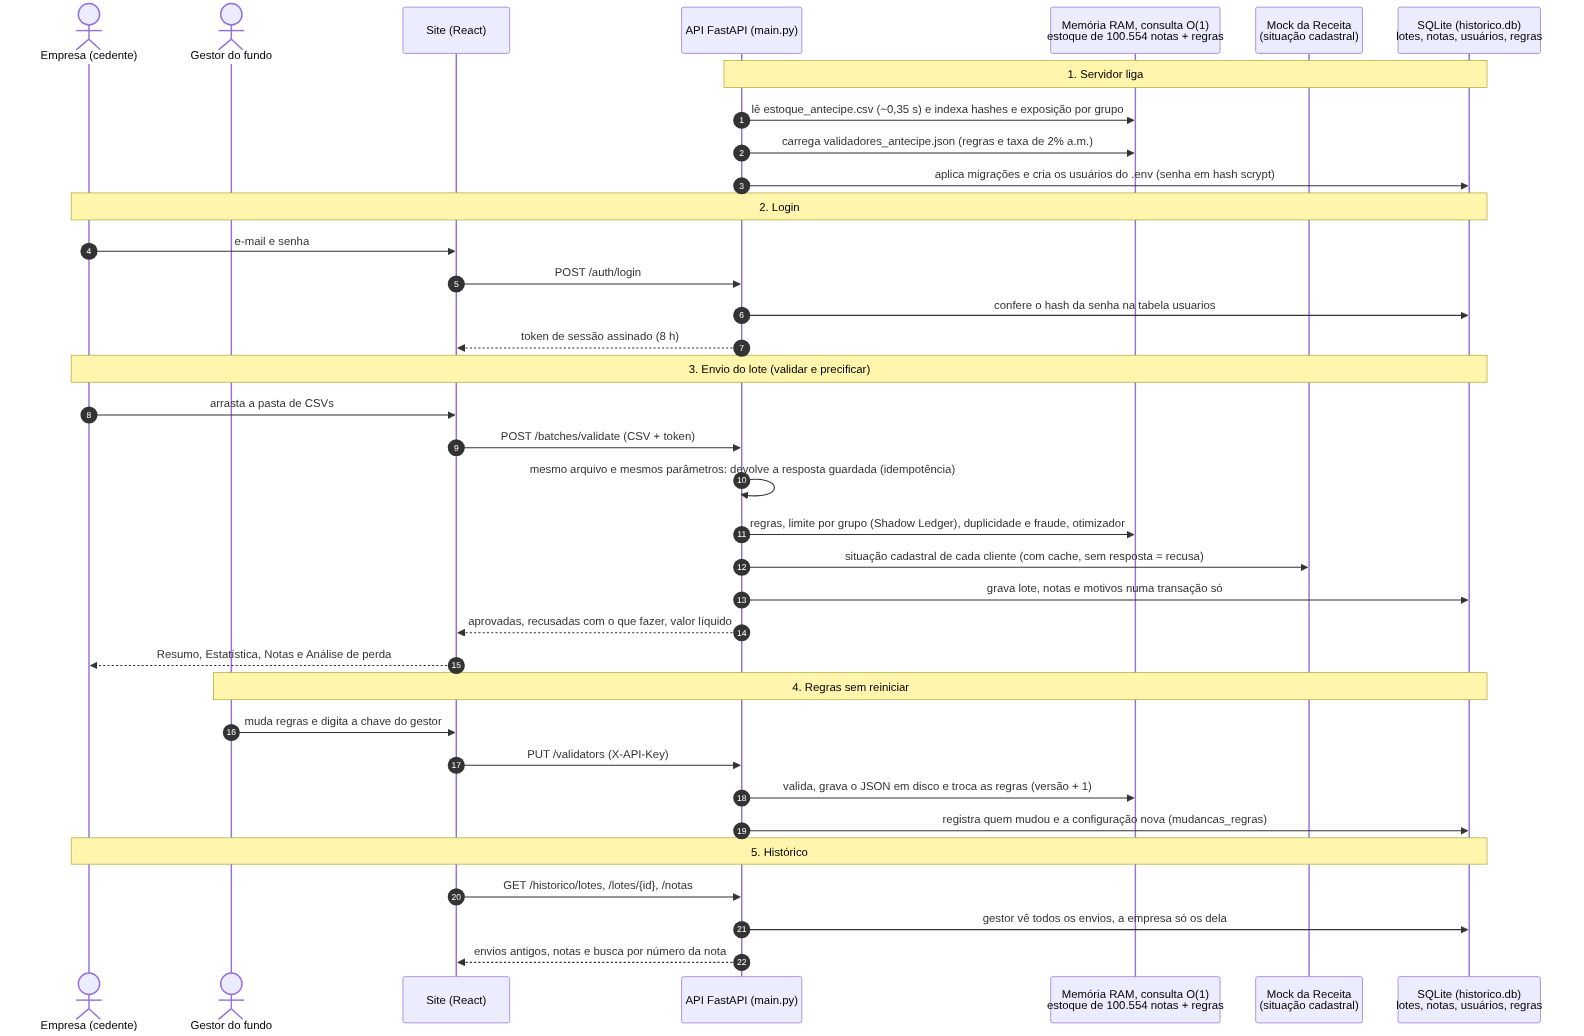
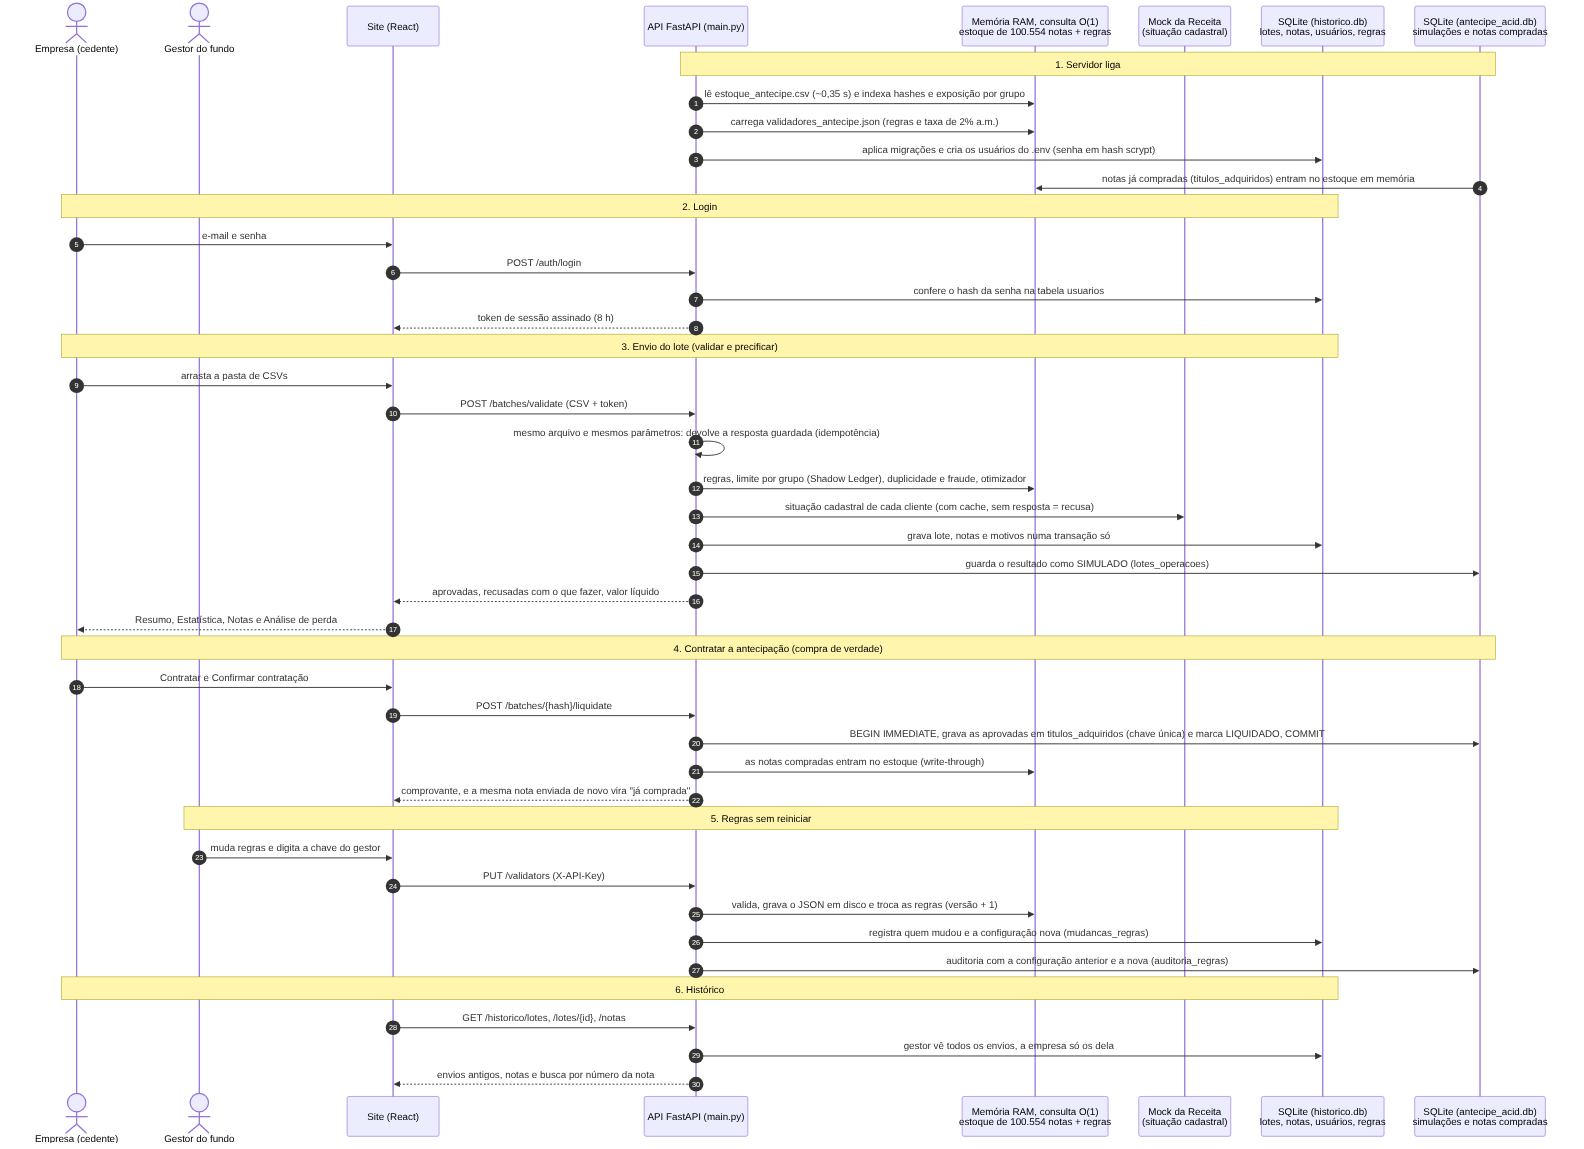
feat(frontend): botão Contratar antecipação no Resumo + diagramas com o banco ACID
- Resumo: Contratar por R$ ... com confirmação chama POST /batches/{hash}/liquidate e mostra o comprovante
- Diagramas: fluxo com a contratação e as tabelas do antecipe_acid.db
- Guia: passo de contratar e como recomeçar do zero

Claude-Session: https://claude.ai/code/session_01PjQaE5YvbVrZZ2dAfbAvsp

diff --git a/frontend/src/components/telas/TelaResumo.tsx b/frontend/src/components/telas/TelaResumo.tsx
@@ -1,5 +1,6 @@
-import { AlertTriangle, ArrowRight, BarChart3, CheckCircle2, ListChecks, Sparkles } from "lucide-react";
-import type { MetaLote, ResumoLote } from "../../types/api";
+import { useState } from "react";
+import { AlertTriangle, ArrowRight, BarChart3, CheckCircle2, Handshake, ListChecks, Loader2, Sparkles } from "lucide-react";
+import type { MetaLote, RespostaLiquidacao, ResumoLote } from "../../types/api";
 import { formatarMoeda, formatarPercentual } from "../../utils/formatters";
 
 interface TelaResumoProps {
@@ -10,6 +11,71 @@ interface TelaResumoProps {
   nomeLote: string | null;
   replayIdempotente: boolean;
   onIr: (destino: "estatistica" | "notas", motivo?: string | null) => void;
+  /** contratar a antecipação deste lote (ausente = modo demonstração ou servidor desligado) */
+  onLiquidar?: () => Promise<void>;
+  liquidacao?: RespostaLiquidacao | null;
+}
+
+/** Último passo: a empresa confirma e o fundo compra as notas aprovadas. Pede confirmação antes. */
+function Contratar({ resumo, onLiquidar, liquidacao }: { resumo: ResumoLote; onLiquidar?: () => Promise<void>; liquidacao?: RespostaLiquidacao | null }) {
+  const [confirmando, setConfirmando] = useState(false);
+  const [enviando, setEnviando] = useState(false);
+  const [erro, setErro] = useState<string | null>(null);
+  if (resumo.qtd_aprovadas === 0) return null;
+
+  if (liquidacao) {
+    return (
+      <div role="status" className="flex items-start gap-3 rounded-3xl border border-emerald-300 bg-emerald-50 p-5 text-emerald-950">
+        <CheckCircle2 className="mt-0.5 h-5 w-5 shrink-0 text-emerald-600" />
+        <div>
+          <p className="font-semibold">{liquidacao.status === "LIQUIDADO" ? "Antecipação contratada" : "Este lote já tinha sido contratado"}</p>
+          <p className="text-sm">
+            {liquidacao.status === "LIQUIDADO"
+              ? `${liquidacao.qtd_titulos_comprados ?? resumo.qtd_aprovadas} notas compradas pelo fundo · ${formatarMoeda(resumo.valor_liquido_receber)}${liquidacao.liquidado_em ? ` · ${liquidacao.liquidado_em.replace(/^(\d{4})-(\d{2})-(\d{2})[ T](\d{2}:\d{2}).*$/, "$3/$2/$1 às $4")}` : ""}`
+              : "As notas já foram compradas antes. Enviar as mesmas notas de novo agora aparece como \"já comprada\"."}
+          </p>
+        </div>
+      </div>
+    );
+  }
+
+  const contratar = async () => {
+    if (!onLiquidar) return;
+    setEnviando(true);
+    setErro(null);
+    try {
+      await onLiquidar();
+    } catch (e) {
+      setErro(e instanceof Error ? e.message : "Não foi possível contratar agora.");
+    } finally {
+      setEnviando(false);
+      setConfirmando(false);
+    }
+  };
+
+  return (
+    <div className="rounded-3xl border border-creme-linha bg-creme-claro p-5 shadow-card">
+      <p className="flex items-center gap-2 font-semibold text-slate-900"><Handshake className="h-5 w-5 text-emerald-700" /> Contratar a antecipação</p>
+      <p className="mt-1 text-sm text-slate-600">
+        {onLiquidar
+          ? `O fundo compra as ${resumo.qtd_aprovadas} notas aprovadas e você recebe ${formatarMoeda(resumo.valor_liquido_receber)}. As recusadas ficam com você.`
+          : "Disponível quando o lote é analisado pelo servidor (não no modo demonstração)."}
+      </p>
+      {erro && <p role="alert" className="mt-2 rounded-xl bg-rose-50 px-3 py-2 text-sm text-rose-800">{erro}</p>}
+      {onLiquidar && (confirmando ? (
+        <div className="mt-3 flex flex-wrap gap-2">
+          <button type="button" onClick={contratar} disabled={enviando} className="btn btn-emerald px-4 py-2 text-sm">
+            {enviando ? <Loader2 className="h-4 w-4 animate-spin" /> : <CheckCircle2 className="h-4 w-4" />} Confirmar contratação
+          </button>
+          <button type="button" onClick={() => setConfirmando(false)} disabled={enviando} className="btn btn-secondary px-4 py-2 text-sm">Cancelar</button>
+        </div>
+      ) : (
+        <button type="button" onClick={() => setConfirmando(true)} className="btn btn-emerald mt-3 px-4 py-2 text-sm">
+          Contratar por {formatarMoeda(resumo.valor_liquido_receber)}
+        </button>
+      ))}
+    </div>
+  );
 }
 
 export function Cabecalho({ titulo, sub }: { titulo: string; sub: string }) {
@@ -35,7 +101,7 @@ function Linha({ rotulo, detalhe, valor, negativo }: { rotulo: string; detalhe: 
   );
 }
 
-export function TelaResumo({ resumo, meta, demo, motorDesligado, nomeLote, replayIdempotente, onIr }: TelaResumoProps) {
+export function TelaResumo({ resumo, meta, demo, motorDesligado, nomeLote, replayIdempotente, onIr, onLiquidar, liquidacao }: TelaResumoProps) {
   const pctAprov = resumo.total_notas ? resumo.qtd_aprovadas / resumo.total_notas : 0;
   const dia = (n: number) => n.toLocaleString("pt-BR", { maximumFractionDigits: 1 });
   return (
@@ -88,6 +154,8 @@ export function TelaResumo({ resumo, meta, demo, motorDesligado, nomeLote, repla
               </div>
             </div>
           </div>
+
+          <Contratar resumo={resumo} onLiquidar={demo || motorDesligado ? undefined : onLiquidar} liquidacao={liquidacao} />
 
           {meta.ganho_otimizador_reais > 0 && (
             <div className="flex items-start gap-3 rounded-3xl border border-emerald-200 bg-emerald-50 p-5 text-emerald-900">

diff --git a/frontend/src/App.tsx b/frontend/src/App.tsx
@@ -10,9 +10,9 @@ import { StatusApi } from "./components/StatusApi";
 import { TabelaRecebiveis } from "./components/TabelaRecebiveis";
 import { GavetaGestor } from "./components/GavetaGestor";
 import { LoginScreen, type Persona } from "./components/LoginScreen";
-import { validarLote, salvarValidadores, simularLoteLocal, obterHealth, sessaoAtual } from "./services/api";
+import { validarLote, salvarValidadores, simularLoteLocal, obterHealth, liquidarLote, sessaoAtual } from "./services/api";
 import { formatarMoedaCompacta } from "./utils/formatters";
-import type { BatchValidationResponse, ComparativoRegras, FonteDados, ModoValidacao, ValidadoresConfig } from "./types/api";
+import type { BatchValidationResponse, ComparativoRegras, FonteDados, ModoValidacao, RespostaLiquidacao, ValidadoresConfig } from "./types/api";
 
 const TELAS: Tela[] = ["envio", "resumo", "estatistica", "perda", "notas", "historico"];
 const telaDoEndereco = (): Tela => {
@@ -66,6 +66,8 @@ export default function App() {
   const [carregando, setCarregando] = useState<boolean>(false);
   const [erroGeral, setErroGeral] = useState<string | null>(null);
   const [motivoFiltroAtivo, setMotivoFiltroAtivo] = useState<string | null>(null);
+  // contratação (liquidação) do lote aberto: guardada pelo hash do arquivo
+  const [liquidacao, setLiquidacao] = useState<RespostaLiquidacao | null>(null);
 
   // Gaveta do gestor e comparativo what-if
   const [drawerGestorAberto, setDrawerGestorAberto] = useState<boolean>(false);
@@ -237,6 +239,7 @@ export default function App() {
     setReplayIdempotente(false);
     setComparativoRegras(null);
     setMotivoFiltroAtivo(null);
+    setLiquidacao(null);
     setErroGeral(null);
     setModo("lote");
     setOtimizarLote(true);
@@ -309,6 +312,8 @@ export default function App() {
             nomeLote={loteAtual?.nome ?? null}
             replayIdempotente={replayIdempotente}
             onIr={(destino, motivo) => (destino === "notas" ? verNotas(motivo ?? null) : irPara(destino))}
+            liquidacao={liquidacao && liquidacao.batch_hash === resultado.meta.batch_hash_idempotencia ? liquidacao : null}
+            onLiquidar={modo === "lote" ? async () => { setLiquidacao(await liquidarLote(resultado.meta.batch_hash_idempotencia)); } : undefined}
           />
         )}
 

diff --git a/frontend/src/services/api.ts b/frontend/src/services/api.ts
@@ -9,6 +9,7 @@ import type {
   MudancaRegras,
   OcorrenciaNota,
   PaginaHistorico,
+  RespostaLiquidacao,
   OpcoesValidacao,
   ResultadoProcessamento,
   ValidadoresConfig,
@@ -293,6 +294,11 @@ export async function obterLoteHistorico(loteId: number, limite = 10_000, offset
 export async function buscarNotaHistorico(nuDocumento: string, limite = 50, offset = 0): Promise<PaginaHistorico<OcorrenciaNota>> {
   const q = encodeURIComponent(nuDocumento.trim());
   return (await requisitar<PaginaHistorico<OcorrenciaNota>>(`/historico/notas?nu_documento=${q}&limite=${limite}&offset=${offset}`)).dados;
+}
+
+/** Contrata a antecipação: o fundo compra as notas aprovadas do lote (sem fallback: precisa do servidor). */
+export async function liquidarLote(batchHash: string): Promise<RespostaLiquidacao> {
+  return (await requisitar<RespostaLiquidacao>(`/batches/${encodeURIComponent(batchHash)}/liquidate`, { method: "POST" }, 30_000)).dados;
 }
 
 /**

diff --git a/frontend/src/types/api.ts b/frontend/src/types/api.ts
@@ -326,3 +326,12 @@ export interface OcorrenciaNota {
   salva_pelo_otimizador: boolean;
   codigos_erro: string[];
 }
+
+/** POST /batches/{batch_hash}/liquidate: efetiva a compra das notas aprovadas (transação ACID). */
+export interface RespostaLiquidacao {
+  batch_hash: string;
+  status: "LIQUIDADO" | "JA_LIQUIDADO";
+  liquidado_em?: string;
+  qtd_titulos_comprados?: number;
+  mensagem?: string;
+}

diff --git a/GUIA_DE_USO.md b/GUIA_DE_USO.md
@@ -111,6 +111,7 @@ Os números abaixo valem com a taxa padrão de 2% ao mês e a data 22/10/2026. O
 ### Passo 8: Resumo
 - Deve mostrar **R$ 184,2 mil** na conta hoje, com **13 notas aprovadas de 22**.
 - O extrato é: valor enviado, menos o que ficou de fora, menos o custo da antecipação, igual ao que cai na conta.
+- Clique em **Contratar por R$ 184.221,52** e depois em **Confirmar contratação**. Aparece o comprovante "Antecipação contratada · 13 notas compradas pelo fundo". A partir daí essas notas são do fundo: enviar o mesmo arquivo de novo mostra todas como "já comprada".
 
 ### Passo 9: Estatística
 1. Clique em **Estatística**.
@@ -181,6 +182,7 @@ Achou algo errado? Anote o passo, o que fez, o que esperava e mande um print.
 | **Menu lateral** | navega entre as telas; mostra quanto cai na conta, quantas notas foram recusadas e se a análise está ligada |
 | **Enviar notas** | manda um arquivo, vários arquivos ou uma pasta. "Notas para antecipar" é o uso normal; "Carteira do fundo" analisa o estoque inteiro. Também dá para mudar a data, a taxa e ligar ou desligar o Otimizar |
 | **Resumo** | extrato de quanto cai na conta hoje, notas aprovadas, ganho do otimizador e alerta de fraude |
+| **Contratar** (no Resumo) | a compra de verdade: o fundo compra as notas aprovadas e mostra o comprovante |
 | **Estatística** | por que as notas foram recusadas (grupos que somam 100%, com quanto cada correção libera), liquidez, valor por problema e vencimentos |
 | **Análise de perda** | quanto custa esperar: digite um valor e um prazo e veja quanto recebe e quanto perde |
 | **Notas** | nota por nota, com busca, abas, explicação de cada recusa e as planilhas para baixar |
@@ -215,4 +217,5 @@ Abra http://localhost:5173. O login aceita qualquer senha e as telas usam o lote
 | `backend` não fica healthy | rode `docker compose logs backend --tail 30` e mande o print no grupo |
 | na VPS Linux, o log diz `unable to open database file` | o container não tem permissão de gravar na pasta. Na VPS: `sudo chown -R 1000:1000 backend/data` e depois `docker compose up -d` |
 | na VPS, o site não fala com a API | no `.env` da VPS, use `VITE_API_URL=http://IP-DA-VPS:8000/api/v1` e rode `docker compose up -d --build` |
-| quero zerar o histórico | `docker compose down`, apague os arquivos `backend\data\historico.db*` e rode o Passo 3 |
+| quero recomeçar do zero (envios e compras) | `docker compose down`, apague os arquivos `historico.db*` e `antecipe_acid.db*` em `backend\data` e rode o Passo 3 |
+| reenviei um lote e tudo aparece como "já comprada" | é o esperado depois de **Contratar**; para repetir a demonstração, recomece do zero (linha acima) |
